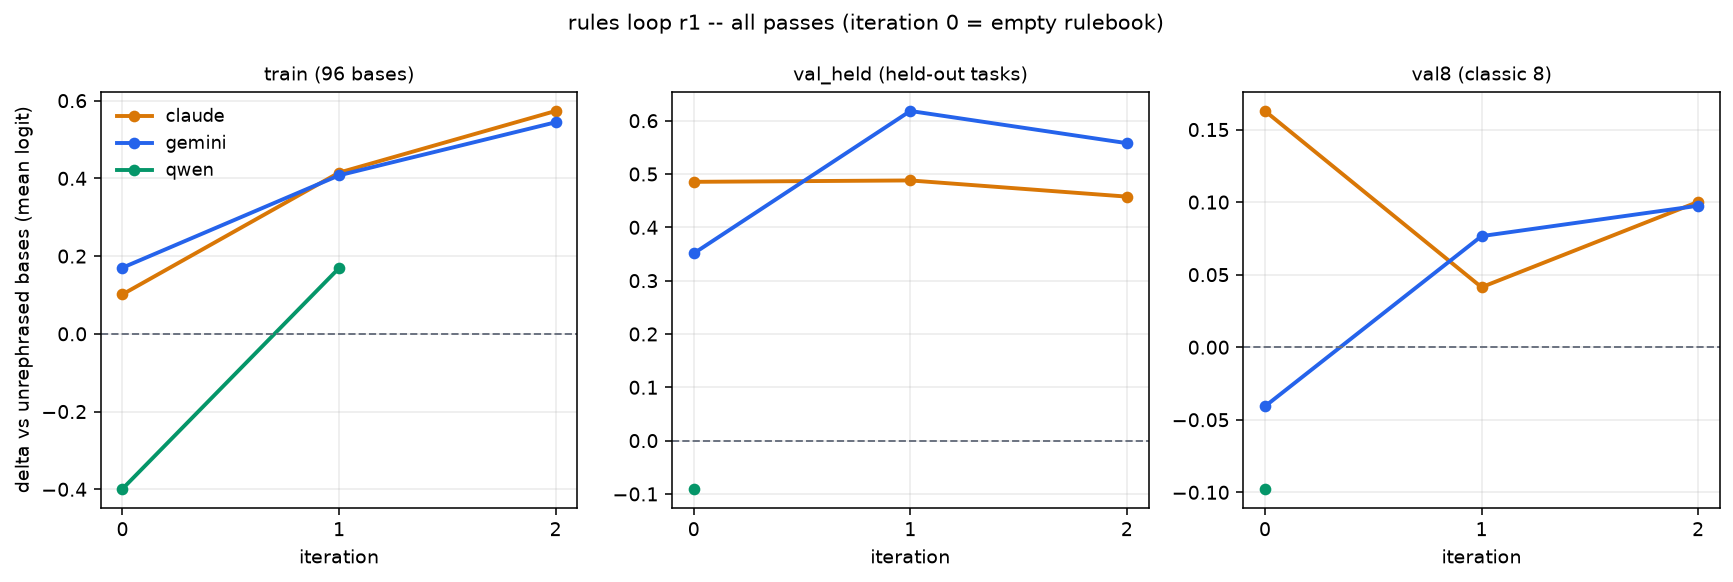
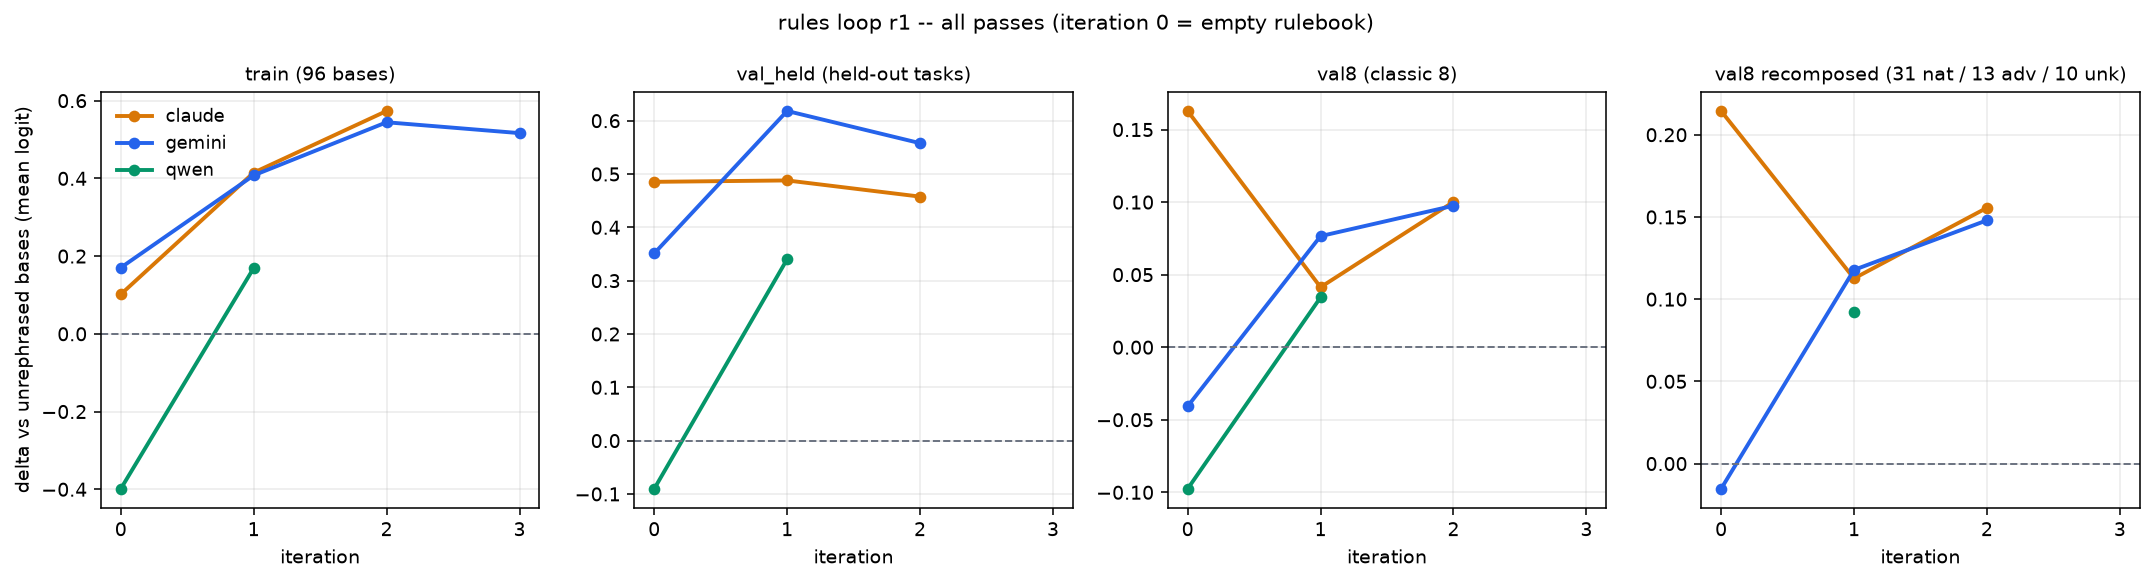
chart: 4th panel -- val8 recomposed (all natural+adversarial, 10 seeded unknowns); legacy-search phrases drowned the official val8

diff --git a/scripts/make_rules_compare.py b/scripts/make_rules_compare.py
@@ -19,7 +19,62 @@ import matplotlib.pyplot as plt
 ROOT = pathlib.Path(__file__).resolve().parents[1]
 COLORS = {"gemini": "#2563eb", "claude": "#d97706", "qwen": "#059669"}
 PANELS = [("train", "train (96 bases)"), ("val_held", "val_held (held-out tasks)"),
-          ("val8", "val8 (classic 8)")]
+          ("val8", "val8 (classic 8)"),
+          ("val8r", "val8 recomposed (31 nat / 13 adv / 10 unk)")]
+
+
+def val8_recomposed_subset(run):
+    """Fixed (task, base) subset: all natural + all adversarial + a seeded 10
+    of the legacy 'unknown' phrases. The full val8 draw is 52 unknown -- mostly
+    search-era phrases with no rewrite headroom -- which drowns the regimes we
+    actually care about."""
+    import pandas as pd
+    bank = pd.read_parquet(run / "bank.parquet")
+    kinds = bank.drop_duplicates(["task", "phrase"])[["task", "phrase", "kind"]]
+    ev = None
+    for f in sorted(run.glob("pass_*/iter_*/eval_val8_*.parquet")):
+        ev = pd.read_parquet(f, columns=["task", "base"]); break
+    if ev is None:
+        return None
+    m = ev.drop_duplicates().rename(columns={"base": "phrase"}).merge(
+        kinds, on=["task", "phrase"], how="left")
+    m["kind"] = m.kind.fillna("unknown")
+    keep = m[m.kind.isin(["natural", "adversarial"])]
+    unk = m[~m.kind.isin(["natural", "adversarial"])].sample(
+        n=min(10, (~m.kind.isin(["natural", "adversarial"])).sum()), random_state=17)
+    sub = pd.concat([keep, unk])
+    return set(zip(sub.task, sub.phrase))
+
+
+def val8_recomposed_series(run):
+    """pass -> [(iter, mean delta on the recomposed subset)]."""
+    import pandas as pd
+    sub = val8_recomposed_subset(run)
+    if not sub:
+        return {}
+    rows = list(run.glob("baseline_val8_*_rows.parquet"))
+    if not rows:
+        return {}
+    b = pd.read_parquet(rows[0]).dropna(subset=["z", "grip"])
+    b["lg"] = 8.123 + 0.4445 * b.z.astype(float) + 11.3193 * (-b.grip.astype(float))
+    base_lg = {(t, p): v for t, p, v in zip(b.task, b.phrase, b.lg)}
+    out = {}
+    for pdir in sorted(run.glob("pass_*")):
+        name = pdir.name.split("_", 1)[1]
+        pts = []
+        for f in sorted(pdir.glob("iter_*/eval_val8_*.parquet")):
+            it = int(f.parent.parts[-1].split("_")[1])
+            e = pd.read_parquet(f).dropna(subset=["z", "grip"])
+            e = e[[(t, bp) in sub for t, bp in zip(e.task, e.base)]]
+            if not len(e):
+                continue
+            e["lg"] = 8.123 + 0.4445 * e.z.astype(float) + 11.3193 * (-e.grip.astype(float))
+            d = [lg - base_lg[(t, bp)] for t, bp, lg in zip(e.task, e.base, e.lg)
+                 if (t, bp) in base_lg]
+            if d:
+                pts.append((it, sum(d) / len(d)))
+        out[name] = pts
+    return out
 
 
 def main():
@@ -31,12 +86,12 @@ def main():
     series = {}   # pass -> metric -> [(iter, delta)]
     for pdir in sorted(run.glob("pass_*")):
         name = pdir.name.split("_", 1)[1]
-        s = {m: [] for m, _ in PANELS}
+        s = {m: [] for m, _ in PANELS if m != "val8r"}
         for f in sorted(pdir.glob("iter_*/scores.json")):
             it = int(f.parent.name.split("_")[1])
             d = json.load(open(f))["delta"]
             for m, _ in PANELS:
-                if d.get(m) is not None:
+                if m != "val8r" and d.get(m) is not None:
                     s[m].append((it, d[m]))
         # partial iterations: train-only points
         for f in sorted(pdir.glob("iter_*/eval_train.json")):
@@ -44,8 +99,11 @@ def main():
             if not (f.parent / "scores.json").exists():
                 s["train"].append((it, json.load(open(f))["delta"]))
         series[name] = s
+    v8r = val8_recomposed_series(run)
+    for name in series:
+        series[name]["val8r"] = v8r.get(name, [])
 
-    fig, axes = plt.subplots(1, 3, figsize=(12.5, 4.2), sharex=True)
+    fig, axes = plt.subplots(1, 4, figsize=(15.5, 4.2), sharex=True)
     for ax, (m, title) in zip(axes, PANELS):
         for name, s in series.items():
             pts = sorted(s[m])
